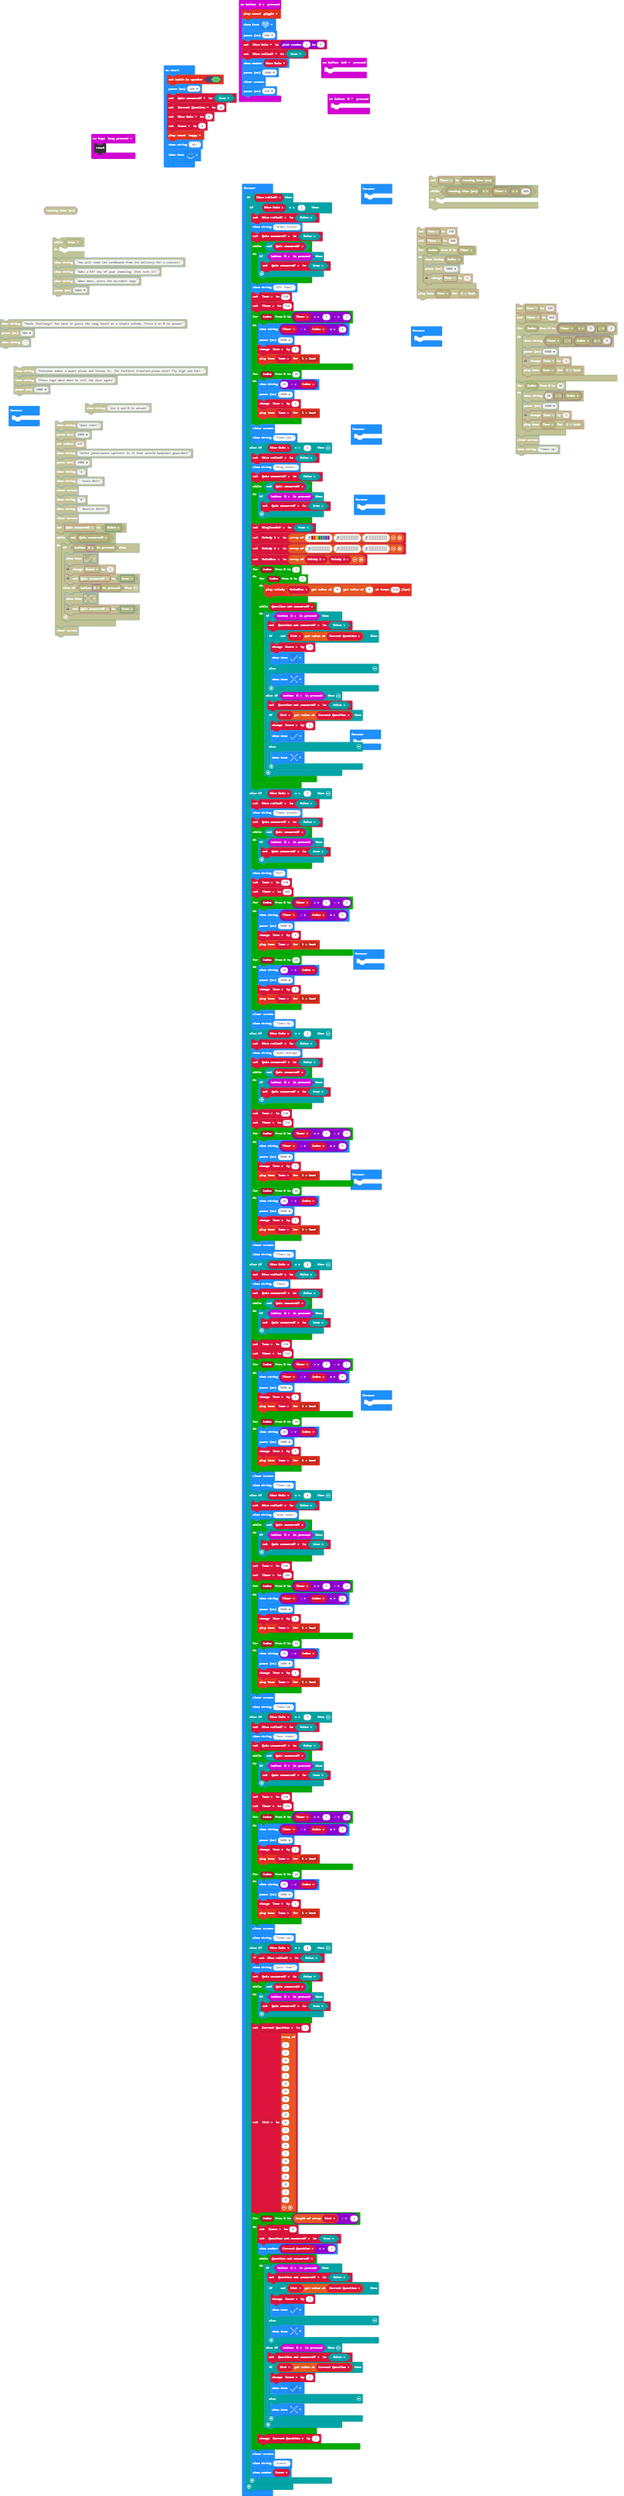
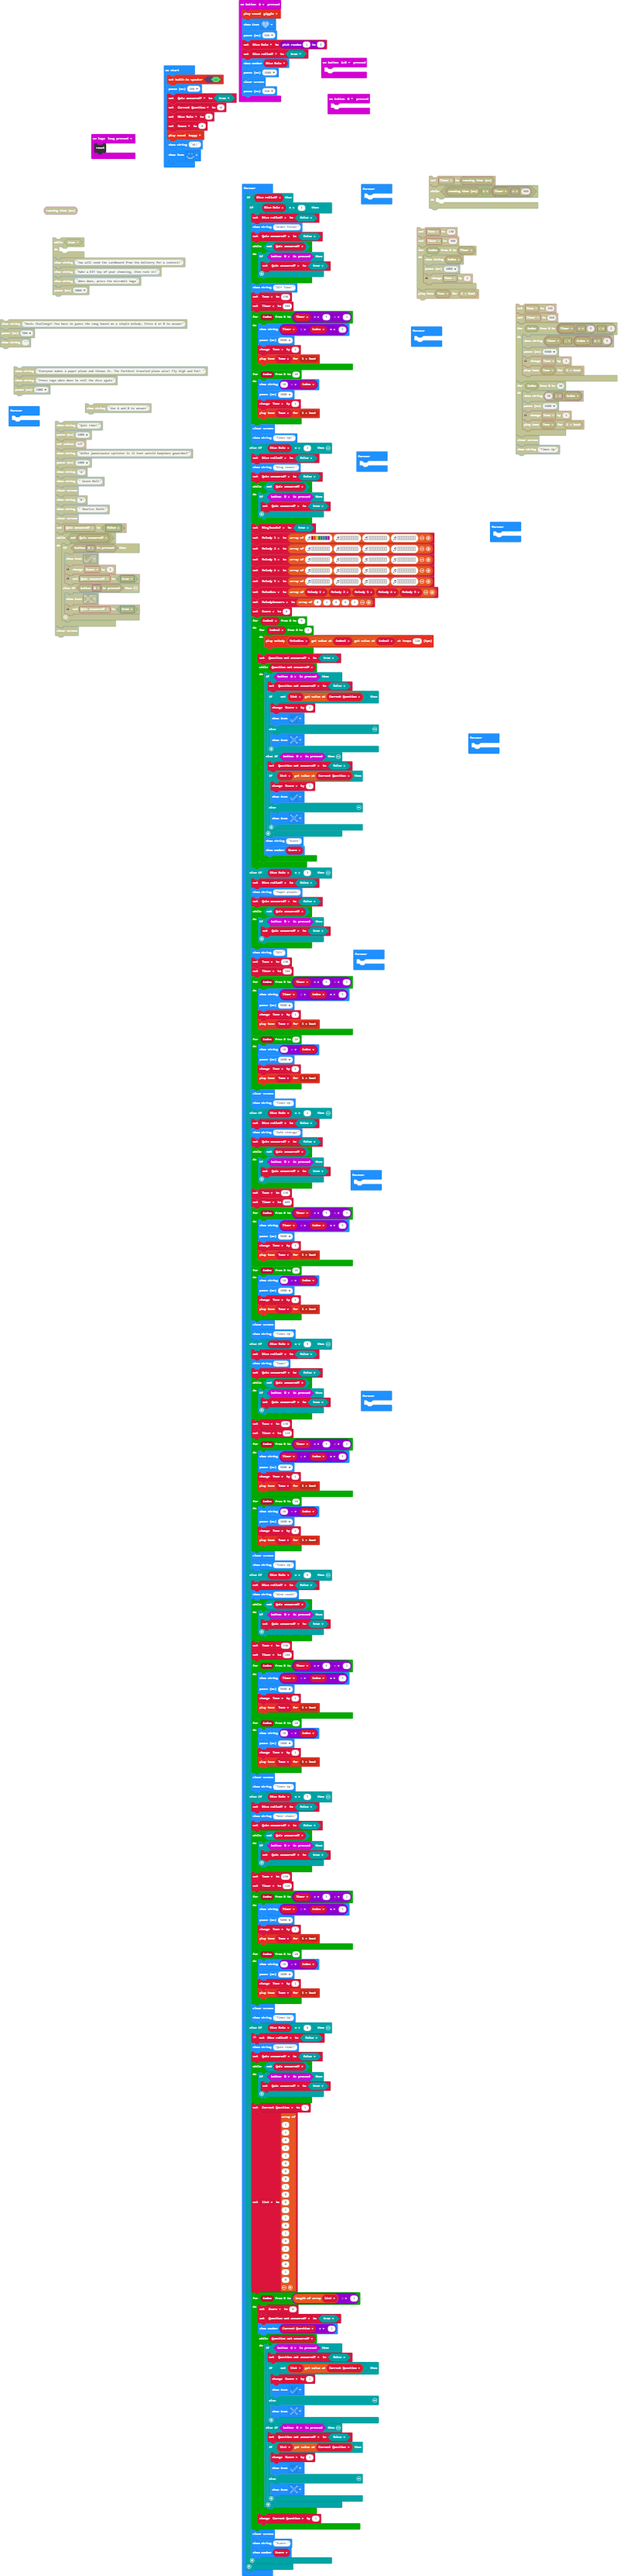
Update main.blocks, main.ts

diff --git a/main.ts b/main.ts
@@ -20,7 +20,11 @@ input.onButtonPressed(Button.B, function () {
 })
 let list: number[] = []
 let Question_not_answered = false
+let MelodyAnswers: number[] = []
 let Melodies2: string[][] = []
+let Melody_5: string[] = []
+let Melody_4: string[] = []
+let Melody_3: string[] = []
 let Melody_2: string[] = []
 let Melody_1: string[] = []
 let RingToneOn = false
@@ -50,7 +54,7 @@ basic.forever(function () {
             }
             basic.showString("DIY Time!")
             Tone = 130
-            Timer = 720
+            Timer = 300
             for (let index = 0; index <= Timer / 5 - 2; index++) {
                 basic.showString("" + (Timer - index * 5))
                 basic.pause(5000)
@@ -75,13 +79,19 @@ basic.forever(function () {
                 }
             }
             RingToneOn = true
-            Melody_1 = ["C5 B A G F E D C ", "- - - - - - - - ", "- - - - - - - - "]
-            Melody_2 = ["- - - - - - - - ", "- - - - - - - - ", "- - - - - - - - "]
-            Melodies2 = [Melody_1, Melody_2]
-            for (let index = 0; index <= 1; index++) {
-                for (let index = 0; index <= 2; index++) {
-                    music.playMelody(Melodies2[0][0], 120)
+            Melody_1 = ["C5 B A G F E D C ", "- - - - - - - - ", "- - - - - - - - ", "- - - - - - - - "]
+            Melody_2 = ["- - - - - - - - ", "- - - - - - - - ", "- - - - - - - - ", "- - - - - - - - "]
+            Melody_3 = ["- - - - - - - - ", "- - - - - - - - ", "- - - - - - - - ", "- - - - - - - - "]
+            Melody_4 = ["- - - - - - - - ", "- - - - - - - - ", "- - - - - - - - ", "- - - - - - - - "]
+            Melody_5 = ["- - - - - - - - ", "- - - - - - - - ", "- - - - - - - - ", "- - - - - - - - "]
+            Melodies2 = [Melody_1, Melody_2, Melody_3, Melody_4, Melody_5]
+            MelodyAnswers = [0, 1, 0, 0, 1]
+            Score = 0
+            for (let index1 = 0; index1 <= 5; index1++) {
+                for (let index2 = 0; index2 <= 4; index2++) {
+                    music.playMelody(Melodies2[index1][index2], 120)
                 }
+                Question_not_answered = true
                 while (Question_not_answered) {
                     if (input.buttonIsPressed(Button.A)) {
                         Question_not_answered = false
@@ -100,6 +110,8 @@ basic.forever(function () {
                             basic.showIcon(IconNames.No)
                         }
                     }
+                    basic.showString("Score")
+                    basic.showNumber(Score)
                 }
             }
         } else if (Dice_Role == 3) {
@@ -113,7 +125,7 @@ basic.forever(function () {
             }
             basic.showString("DIY")
             Tone = 130
-            Timer = 360
+            Timer = 180
             for (let index = 0; index <= Timer / 5 - 2; index++) {
                 basic.showString("" + (Timer - index * 5))
                 basic.pause(5000)
@@ -138,7 +150,7 @@ basic.forever(function () {
                 }
             }
             Tone = 130
-            Timer = 720
+            Timer = 600
             for (let index = 0; index <= Timer / 5 - 2; index++) {
                 basic.showString("" + (Timer - index * 5))
                 basic.pause(5000)
